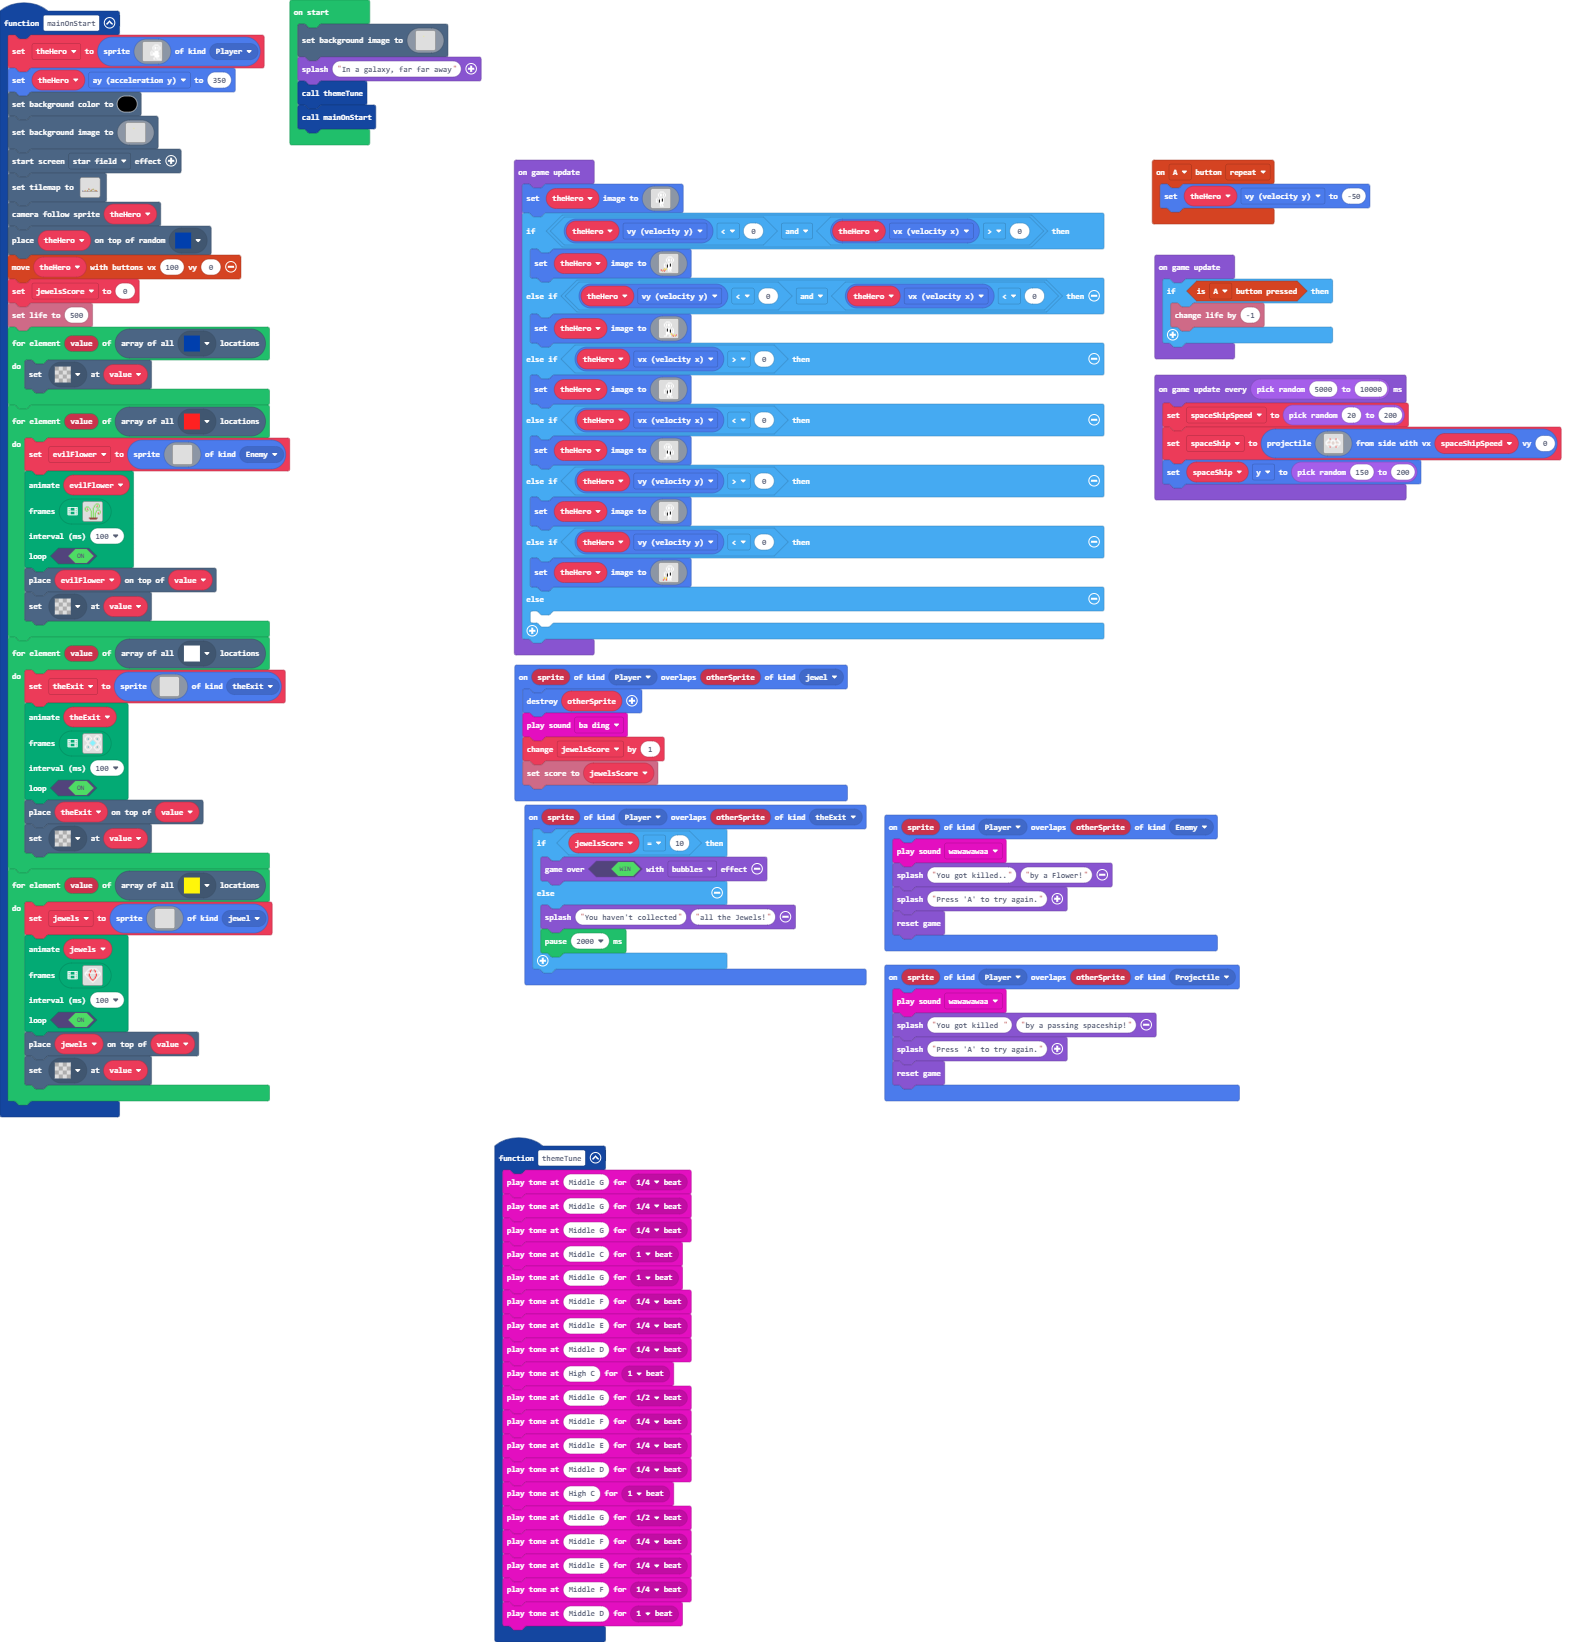
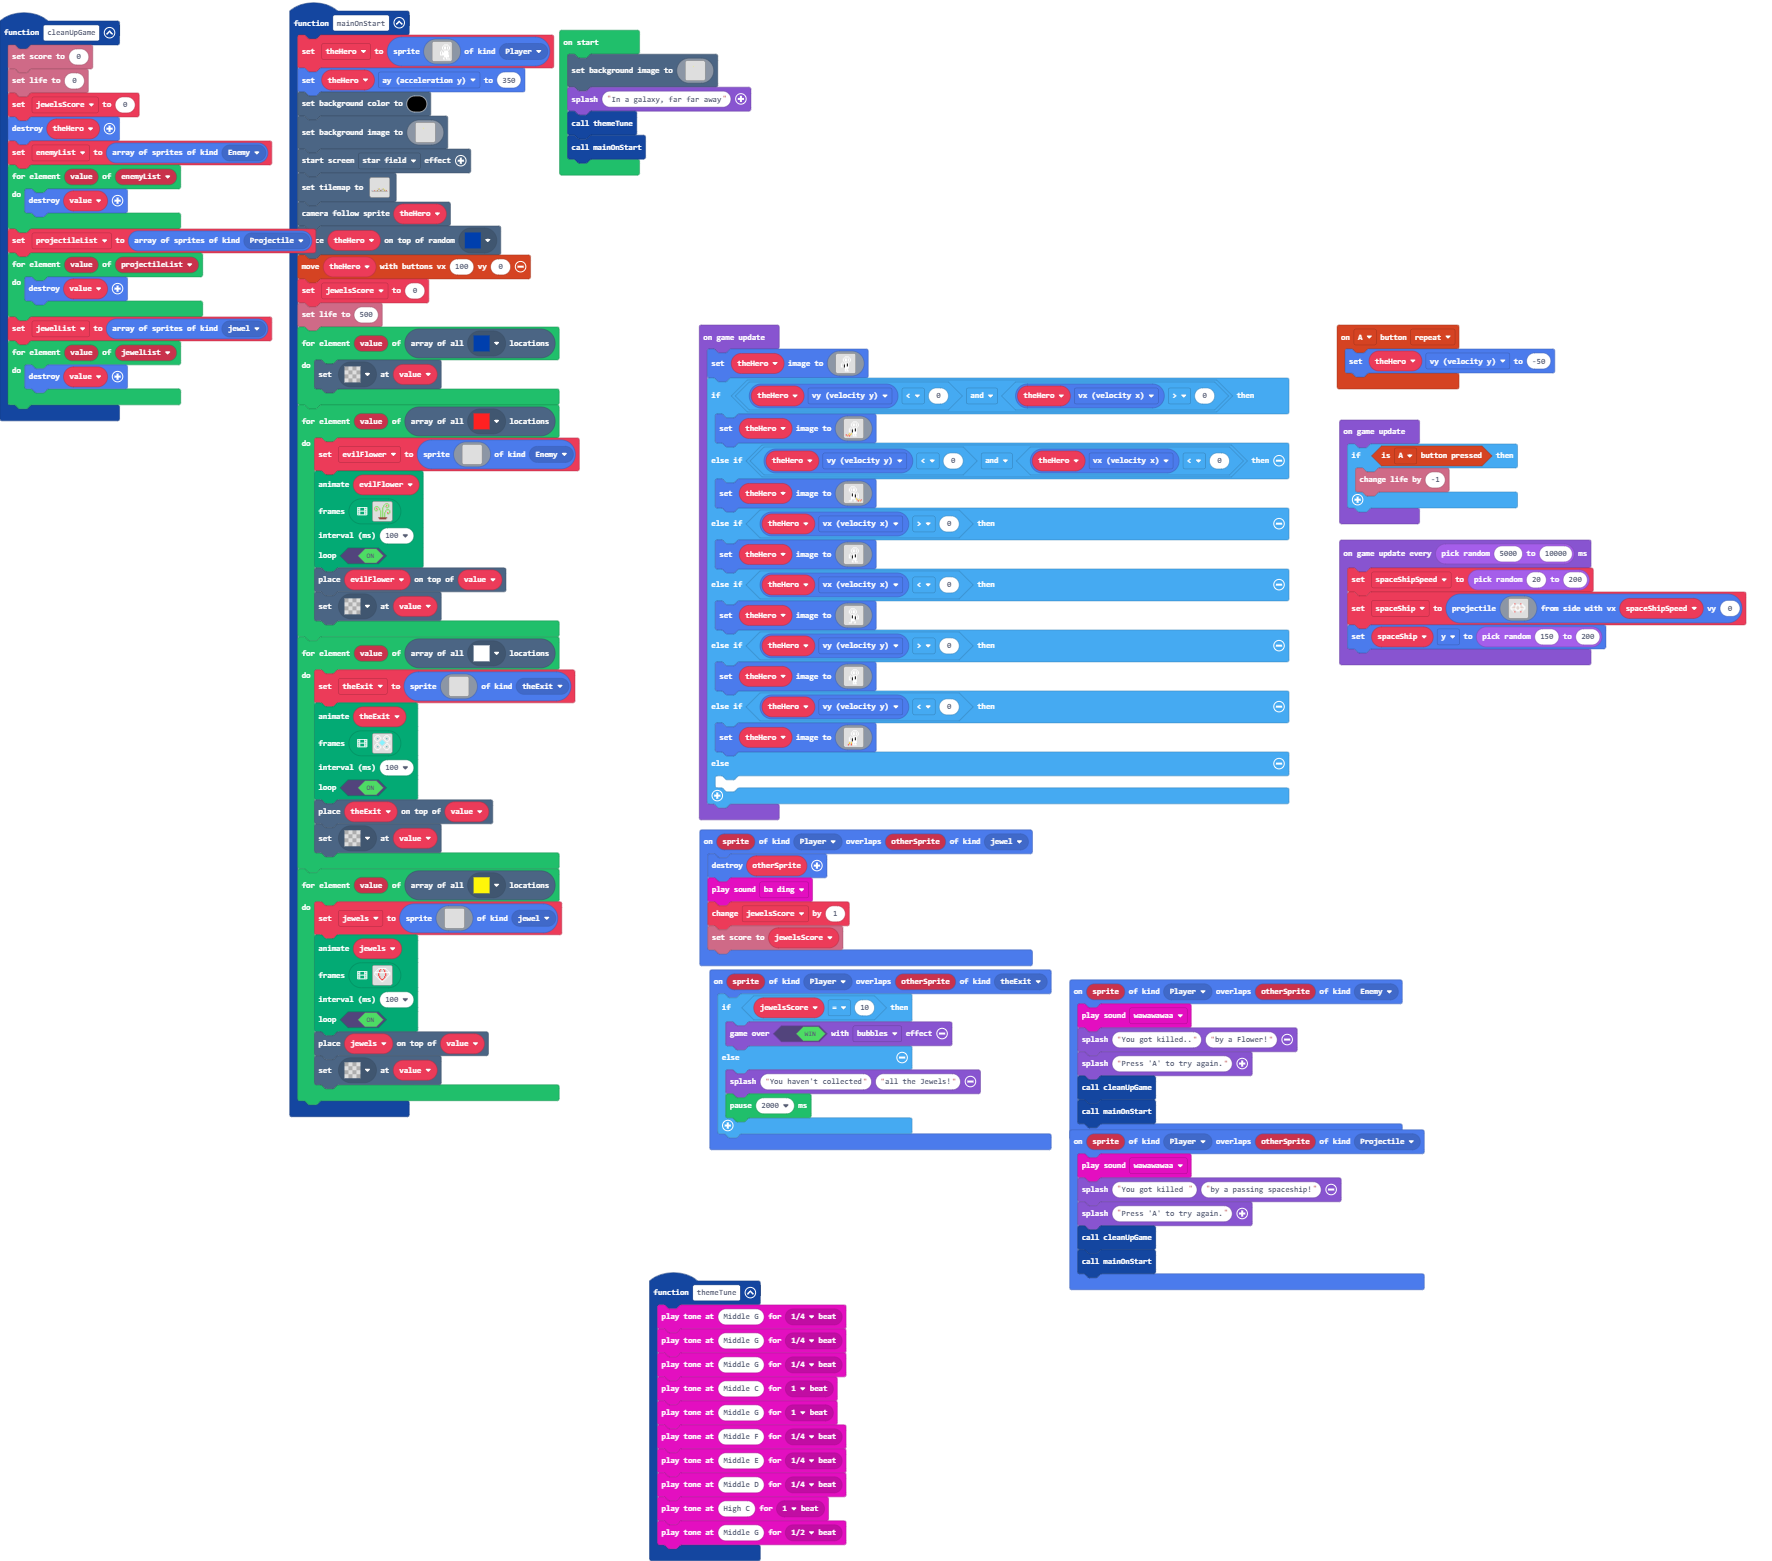
Update main.blocks, main.ts

diff --git a/main.ts b/main.ts
@@ -2,6 +2,24 @@ namespace SpriteKind {
     export const theExit = SpriteKind.create()
     export const jewel = SpriteKind.create()
 }
+function cleanUpGame () {
+    info.setScore(0)
+    info.setLife(0)
+    jewelsScore = 0
+    theHero.destroy()
+    enemyList = sprites.allOfKind(SpriteKind.Enemy)
+    for (let value of enemyList) {
+        value.destroy()
+    }
+    projectileList = sprites.allOfKind(SpriteKind.Projectile)
+    for (let value of projectileList) {
+        value.destroy()
+    }
+    jewelList = sprites.allOfKind(SpriteKind.jewel)
+    for (let value of jewelList) {
+        value.destroy()
+    }
+}
 function themeTune () {
     music.playTone(392, music.beat(BeatFraction.Quarter))
     music.playTone(392, music.beat(BeatFraction.Quarter))
@@ -13,15 +31,6 @@ function themeTune () {
     music.playTone(294, music.beat(BeatFraction.Quarter))
     music.playTone(523, music.beat(BeatFraction.Whole))
     music.playTone(392, music.beat(BeatFraction.Half))
-    music.playTone(349, music.beat(BeatFraction.Quarter))
-    music.playTone(330, music.beat(BeatFraction.Quarter))
-    music.playTone(294, music.beat(BeatFraction.Quarter))
-    music.playTone(523, music.beat(BeatFraction.Whole))
-    music.playTone(392, music.beat(BeatFraction.Half))
-    music.playTone(349, music.beat(BeatFraction.Quarter))
-    music.playTone(330, music.beat(BeatFraction.Quarter))
-    music.playTone(349, music.beat(BeatFraction.Quarter))
-    music.playTone(294, music.beat(BeatFraction.Whole))
 }
 function mainOnStart () {
     theHero = sprites.create(img`
@@ -639,7 +648,8 @@ sprites.onOverlap(SpriteKind.Player, SpriteKind.Projectile, function (sprite, ot
     music.wawawawaa.play()
     game.splash("You got killed ", "by a passing spaceship!")
     game.splash("Press 'A' to try again.")
-    game.reset()
+    cleanUpGame()
+    mainOnStart()
 })
 controller.A.onEvent(ControllerButtonEvent.Repeated, function () {
     theHero.vy = -50
@@ -662,15 +672,19 @@ sprites.onOverlap(SpriteKind.Player, SpriteKind.Enemy, function (sprite, otherSp
     music.wawawawaa.play()
     game.splash("You got killed..", "by a Flower!")
     game.splash("Press 'A' to try again.")
-    game.reset()
+    cleanUpGame()
+    mainOnStart()
 })
 let spaceShip: Sprite = null
 let spaceShipSpeed = 0
 let jewels: Sprite = null
 let theExit: Sprite = null
 let evilFlower: Sprite = null
-let jewelsScore = 0
+let jewelList: Sprite[] = []
+let projectileList: Sprite[] = []
+let enemyList: Sprite[] = []
 let theHero: Sprite = null
+let jewelsScore = 0
 scene.setBackgroundImage(img`
     ................................................................................................................................................................
     ................................................................................................................................................................
